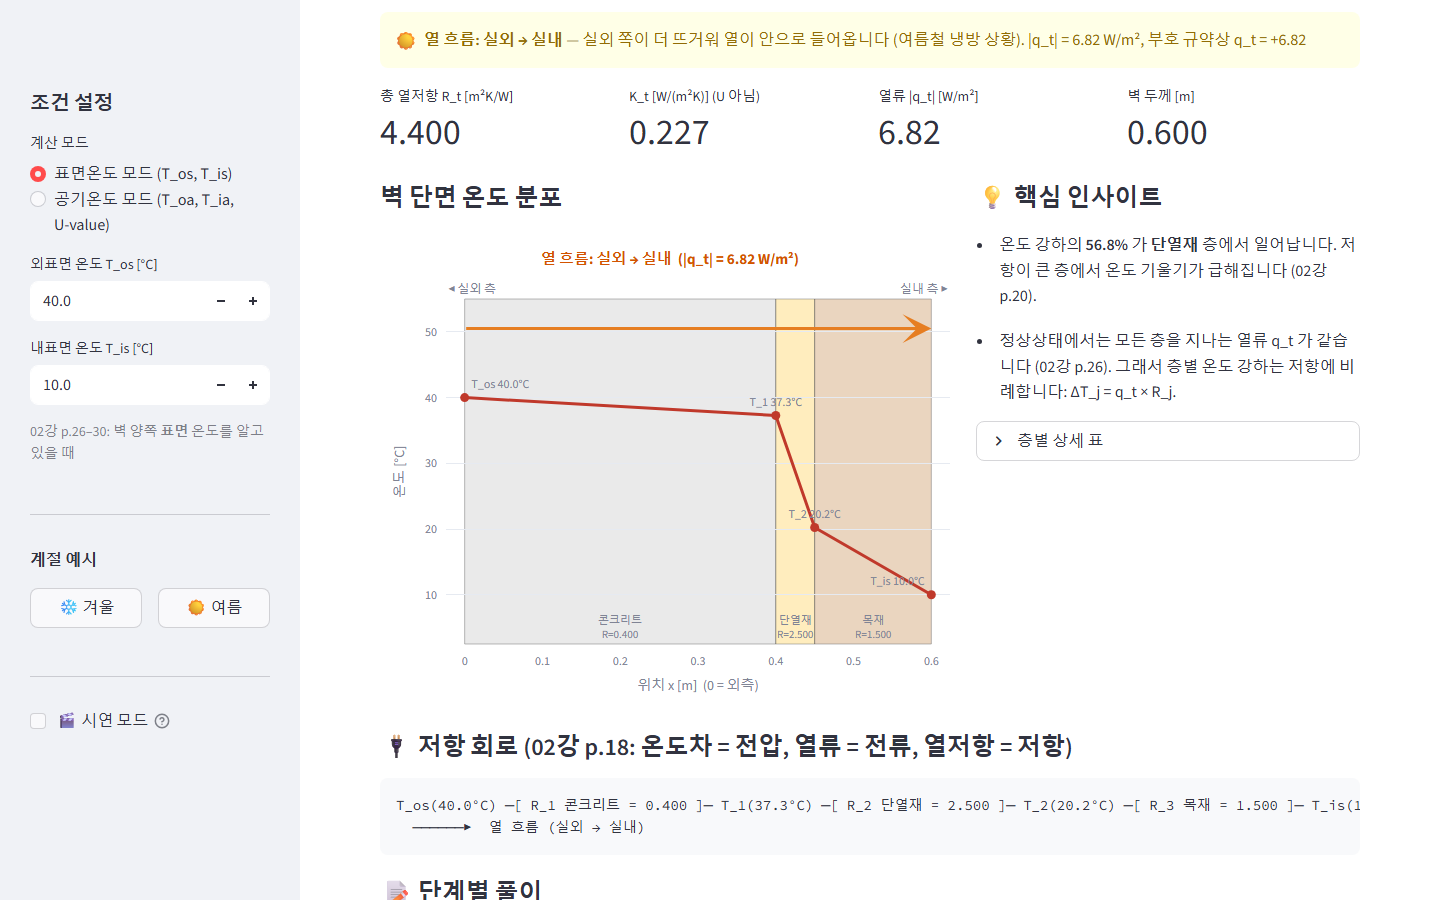
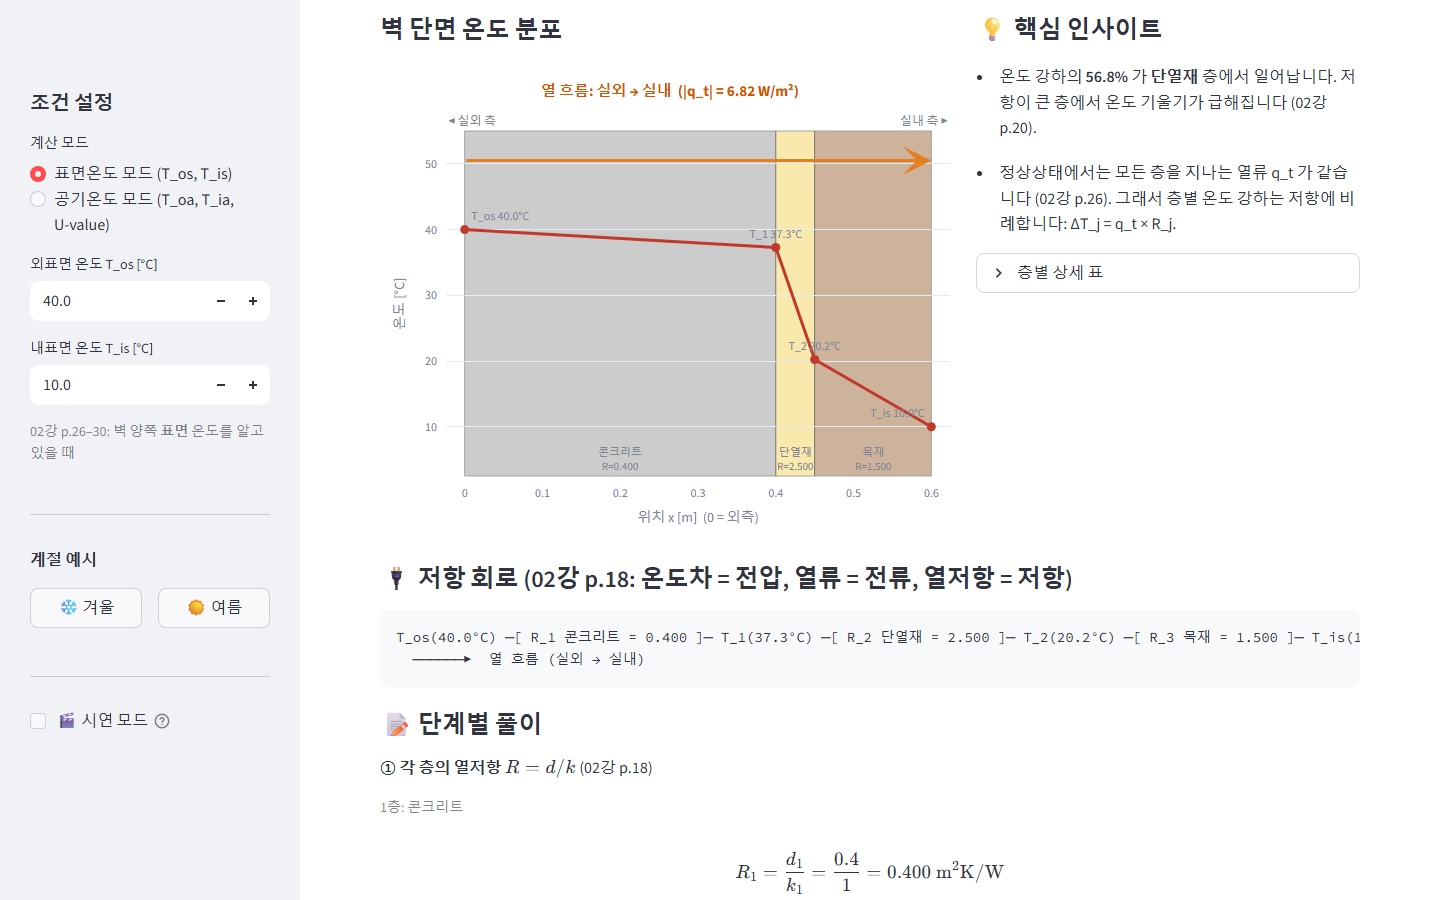
2D·3D 재료 색 통일, 탭 전환 버그 수정, README 캡처 추가
- 2D 그래프를 viz2d.py 로 분리하고 층 배경을 3D 재료 보기와 같은 재료 색으로 통일
- 코드로 탭을 바꾼 뒤 다음 조작에서 이전 탭으로 되돌아가던 문제 수정
- AI 버튼 요청: 채팅 말풍선·기록은 짧은 문구, AI 에는 전체 내용 전송
- README 화면 캡처 6장 (벽체 실험실, AI 튜터 2장, 개념 점검, 설계 챌린지 2장)
- 테스트 추가 (2D 재료 색, 요청 문구 분리)

diff --git a/viz2d.py b/viz2d.py
@@ -1,0 +1,85 @@
+"""2D 벽 단면 온도 그래프 (Plotly). 계산 없이 calc.py 결과만 그린다.
+
+층 배경색은 3D 재료 보기(viz3d.material_color)와 같은 재료 색을 쓴다.
+같은 재료면 2D·3D 가 같은 색이고, 단열재는 k 값별로 명도만 다르다.
+"""
+
+from __future__ import annotations
+
+import plotly.graph_objects as go
+
+from viz3d import EDGE_COLOR, material_color
+
+# 층 배경은 3D 와 같은 재료 색(같은 색상)을 반투명으로: 위에 그리는 온도선(빨강)과 이름표가 읽히도록
+LAYER_OPACITY = 0.5
+
+
+def flow_text(res: dict) -> str:
+    if res["q_abs"] < 1e-12:
+        return "열 흐름 없음"
+    return "열 흐름: 실외 → 실내" if res["q_t"] > 0 else "열 흐름: 실내 → 실외"
+
+
+def build_figure(res: dict) -> go.Figure:
+    fig = go.Figure()
+    L = res["total_thickness"]
+    air = res["mode"] == "air"
+    a = 0.12 * L if air else 0.0  # 공기 구간 표시 폭 (실제 두께 아님)
+
+    layers = [e for e in res["elements"] if e["kind"] == "layer"]
+    for e in layers:
+        fig.add_vrect(x0=e["x_start"], x1=e["x_end"], fillcolor=material_color(e["name"], e["k"]),
+                      opacity=LAYER_OPACITY, line=dict(color=EDGE_COLOR, width=1), layer="below")
+        fig.add_annotation(x=(e["x_start"] + e["x_end"]) / 2, y=0, yref="paper", yanchor="bottom",
+                           text=f"{e['name']}<br>R={e['R']:.3f}", showarrow=False, font=dict(size=11))
+
+    b = res["boundaries"]
+    if air:
+        for x0, x1 in ((-a, 0), (L, L + a)):
+            fig.add_vrect(x0=x0, x1=x1, fillcolor="#e8f1fb", opacity=0.6, line_width=0, layer="below")
+        # 외기 -> 외표면, 내표면 -> 실내공기 (표면저항 구간)
+        fig.add_trace(go.Scatter(x=[-a, 0], y=[b[0]["T"], b[1]["T"]], mode="lines+markers",
+                                 line=dict(color="#4a90d9", dash="dot", width=2), name="표면저항 구간"))
+        fig.add_trace(go.Scatter(x=[L, L + a], y=[b[-2]["T"], b[-1]["T"]], mode="lines+markers",
+                                 line=dict(color="#4a90d9", dash="dot", width=2), showlegend=False))
+        wall_pts = b[1:-1]
+        for x_air, bt_air, bt_wall, name in ((-a, b[0], b[1], "외기"), (L + a, b[-1], b[-2], "실내 공기")):
+            fig.add_annotation(x=x_air, y=bt_air["T"], text=f"{tex_plain(bt_air['symbol'])}<br>{bt_air['T']:.1f}°C",
+                               showarrow=False, yshift=18, font=dict(color="#2a6ab0"))
+            jump = abs(bt_wall["T"] - bt_air["T"])
+            fig.add_annotation(x=(x_air + (0 if x_air < 0 else L)) / 2, y=(bt_air["T"] + bt_wall["T"]) / 2,
+                               text=f"표면저항<br>ΔT {jump:.2f}°C", showarrow=False, xshift=0, yshift=-22,
+                               font=dict(size=10, color="#2a6ab0"))
+    else:
+        wall_pts = b
+
+    fig.add_trace(go.Scatter(
+        x=[p["x"] for p in wall_pts], y=[p["T"] for p in wall_pts], mode="lines+markers+text",
+        text=[f"{tex_plain(p['symbol'])} {p['T']:.1f}°C" for p in wall_pts], textposition=["top right"] + ["top center"] * (len(wall_pts) - 2) + ["top left"],
+        line=dict(color="#c0392b", width=3), marker=dict(size=9), name="벽체 내부 온도"))
+
+    temps = [p["T"] for p in b]
+    lo, hi = min(temps), max(temps)
+    span = max(hi - lo, 1.0)
+    y_top = hi + 0.35 * span
+    fig.update_yaxes(range=[lo - 0.25 * span, hi + 0.5 * span], title="온도 [°C]")
+    fig.update_xaxes(range=[-a - 0.04 * L, L + a + 0.04 * L], title="위치 x [m]  (0 = 외측)")
+
+    # 열 흐름 화살표 (고온측 -> 저온측)
+    if res["q_abs"] > 1e-12:
+        x_hot, x_cold = (-a, L + a) if res["q_t"] > 0 else (L + a, -a)
+        fig.add_annotation(x=x_cold, y=y_top, ax=x_hot, ay=y_top, xref="x", yref="y", axref="x", ayref="y",
+                           showarrow=True, arrowhead=3, arrowsize=1.6, arrowwidth=3, arrowcolor="#e67e22", text="")
+    fig.update_layout(title=dict(text=f"<b>{flow_text(res)}</b>  (|q_t| = {res['q_abs']:.2f} W/m²)",
+                                 x=0.5, xanchor="center", font=dict(size=15, color="#d35400")))
+    fig.add_annotation(x=0, y=1, xref="paper", yref="paper", text="◀ 실외 측", showarrow=False,
+                       xanchor="left", yanchor="bottom", font=dict(size=12))
+    fig.add_annotation(x=1, y=1, xref="paper", yref="paper", text="실내 측 ▶", showarrow=False,
+                       xanchor="right", yanchor="bottom", font=dict(size=12))
+    fig.update_layout(height=480, margin=dict(l=10, r=10, t=70, b=10),
+                      legend=dict(orientation="h", y=-0.18), plot_bgcolor="white")
+    return fig
+
+
+def tex_plain(symbol: str) -> str:
+    return symbol  # 그래프 라벨은 'T_os' 그대로 (Plotly 텍스트)

diff --git a/tests/test_viz2d.py b/tests/test_viz2d.py
@@ -1,0 +1,56 @@
+import sys
+from pathlib import Path
+
+import plotly.graph_objects as go
+
+sys.path.insert(0, str(Path(__file__).resolve().parents[1]))
+
+from calc import Layer, solve_surface  # noqa: E402
+from challenge import CONCRETE, GYPSUM, INSULATIONS, LEVELS, LV4_INNER, LV4_OUTER, solve  # noqa: E402
+from viz2d import LAYER_OPACITY, build_figure, flow_text  # noqa: E402
+from viz3d import INSULATION_COLORS, MATERIAL_COLORS, MODE_MATERIAL, wall_figure  # noqa: E402
+
+AIR_FILL = "#e8f1fb"
+
+
+def layer_fills(fig):
+    """2D 그림의 층 배경(vrect) 색, 표면저항 구간(공기)은 제외."""
+    return [sh.fillcolor for sh in fig.layout.shapes if sh.type == "rect" and sh.fillcolor != AIR_FILL]
+
+
+def mesh_colors(fig):
+    return [t.color for t in fig.data if isinstance(t, go.Mesh3d)]
+
+
+def test_lab_example_uses_material_colors():
+    layers = [Layer("콘크리트", 0.4, 1.0), Layer("단열재", 0.05, 0.02), Layer("목재", 0.15, 0.1)]
+    fig = build_figure(solve_surface(layers, 40, 10))
+    assert layer_fills(fig) == [MATERIAL_COLORS["콘크리트"], INSULATION_COLORS[0.02], MATERIAL_COLORS["목재"]]
+    assert all(sh.opacity == LAYER_OPACITY for sh in fig.layout.shapes if sh.fillcolor != AIR_FILL)
+
+
+def test_2d_matches_3d_material_view_for_every_level():
+    outer = [("단열재 (p.21, k=0.03)", 0.20), (CONCRETE, 0.20), (GYPSUM, 0.015)]   # Lv.3 외단열 통과 설계
+    specs = [LEVELS[1]["start"], LEVELS[2]["start"], LEVELS[3]["start"], outer, LV4_INNER, LV4_OUTER]
+    for spec in specs:
+        res = solve(spec)
+        assert layer_fills(build_figure(res)) == mesh_colors(wall_figure(res, (-10, 20), MODE_MATERIAL)), spec
+
+
+def test_insulation_color_follows_material_not_position():
+    inner, outer = solve(LV4_INNER), solve(LV4_OUTER)
+    assert layer_fills(build_figure(inner))[1] == layer_fills(build_figure(outer))[0] == INSULATION_COLORS[0.03]
+    assert layer_fills(build_figure(inner))[0] == layer_fills(build_figure(outer))[1] == MATERIAL_COLORS["콘크리트"]
+
+
+def test_insulation_k_variants_differ_in_2d():
+    fills = {layer_fills(build_figure(solve([(CONCRETE, 0.2), (key, 0.1), (GYPSUM, 0.015)])))[1]
+             for key in INSULATIONS}
+    assert fills == {INSULATION_COLORS[0.02], INSULATION_COLORS[0.03], INSULATION_COLORS[0.04]}
+
+
+def test_air_mode_keeps_surface_zones_and_flow_text():
+    res = solve(LEVELS[1]["start"])
+    fig = build_figure(res)
+    assert sum(1 for sh in fig.layout.shapes if sh.fillcolor == AIR_FILL) == 2
+    assert flow_text(res) == "열 흐름: 실내 → 실외"

diff --git a/tutor.py b/tutor.py
@@ -138,6 +138,18 @@ def calc_context(inputs: dict, res: dict) -> dict:
     }
 
 
+def make_request(display: str, payload: str) -> dict:
+    """버튼이 보내는 요청: 채팅 말풍선·대화 기록용 짧은 문구와 AI 에게 보낼 전체 내용을 분리."""
+    return {"display": display, "payload": payload}
+
+
+def request_parts(pending: str | dict) -> tuple[str, str]:
+    """(화면·기록용 문구, AI 전송용 내용). 바로가기 버튼처럼 문자열이면 둘이 같다."""
+    if isinstance(pending, dict):
+        return pending["display"], pending["payload"]
+    return pending, pending
+
+
 def build_messages(history: list[dict], question: str, context: dict) -> list[dict]:
     """[{role: user|assistant, content}] — 최근 MAX_TURNS 턴 + 이번 질문(계산 결과 JSON 포함)."""
     recent = history[-2 * MAX_TURNS:]

diff --git a/tests/test_tutor.py b/tests/test_tutor.py
@@ -103,3 +103,12 @@ def test_partial_notes_use_found_sections(tmp_path):
     ref = tutor_reference(notes)
     assert ref.startswith("### 2.8 열저항") and "2.99" not in ref
     assert "<정리본>" in build_system_prompt(reference=ref)
+
+
+def test_request_display_and_payload_are_separate():
+    from tutor import make_request, request_parts
+    req = make_request("📐 Lv.3 내 설계를 평가해줘", '[설계 챌린지] ... {"레벨": "Lv.3"}')
+    display, payload = request_parts(req)
+    assert display == "📐 Lv.3 내 설계를 평가해줘" and "{" not in display
+    assert payload.startswith("[설계 챌린지]") and '"레벨"' in payload
+    assert request_parts("U-value가 뭐야?") == ("U-value가 뭐야?", "U-value가 뭐야?")   # 바로가기 버튼
